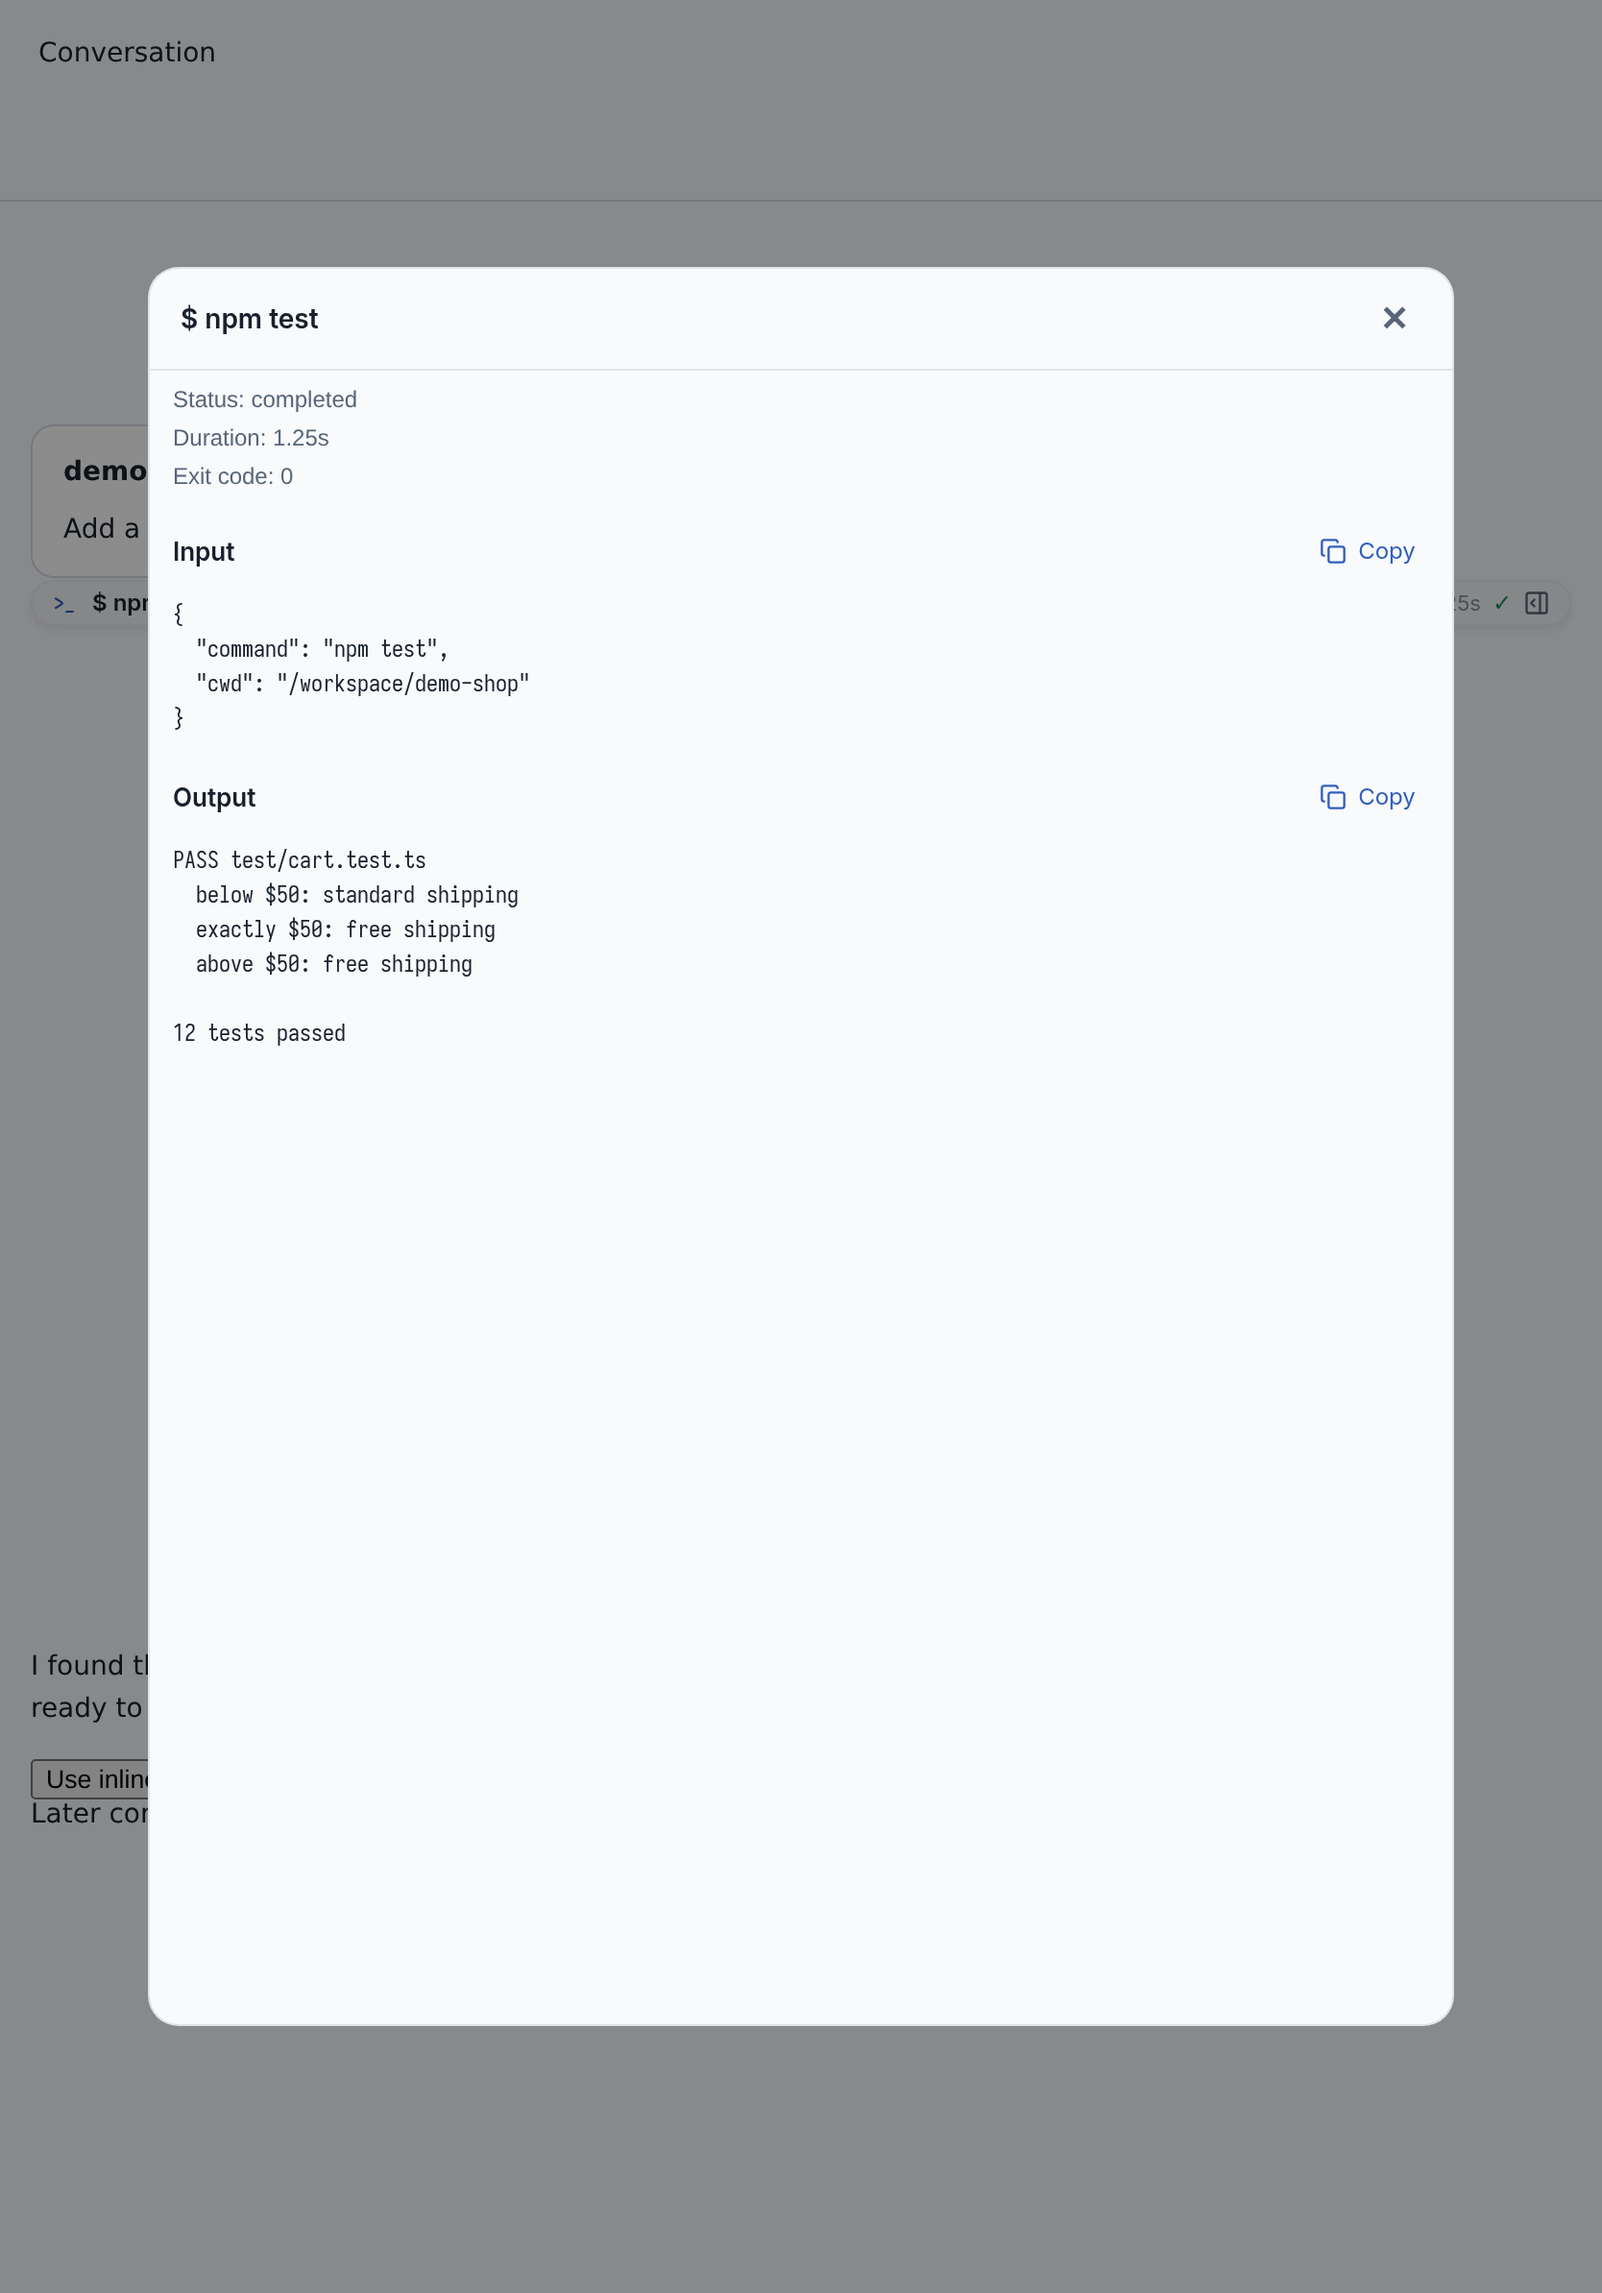
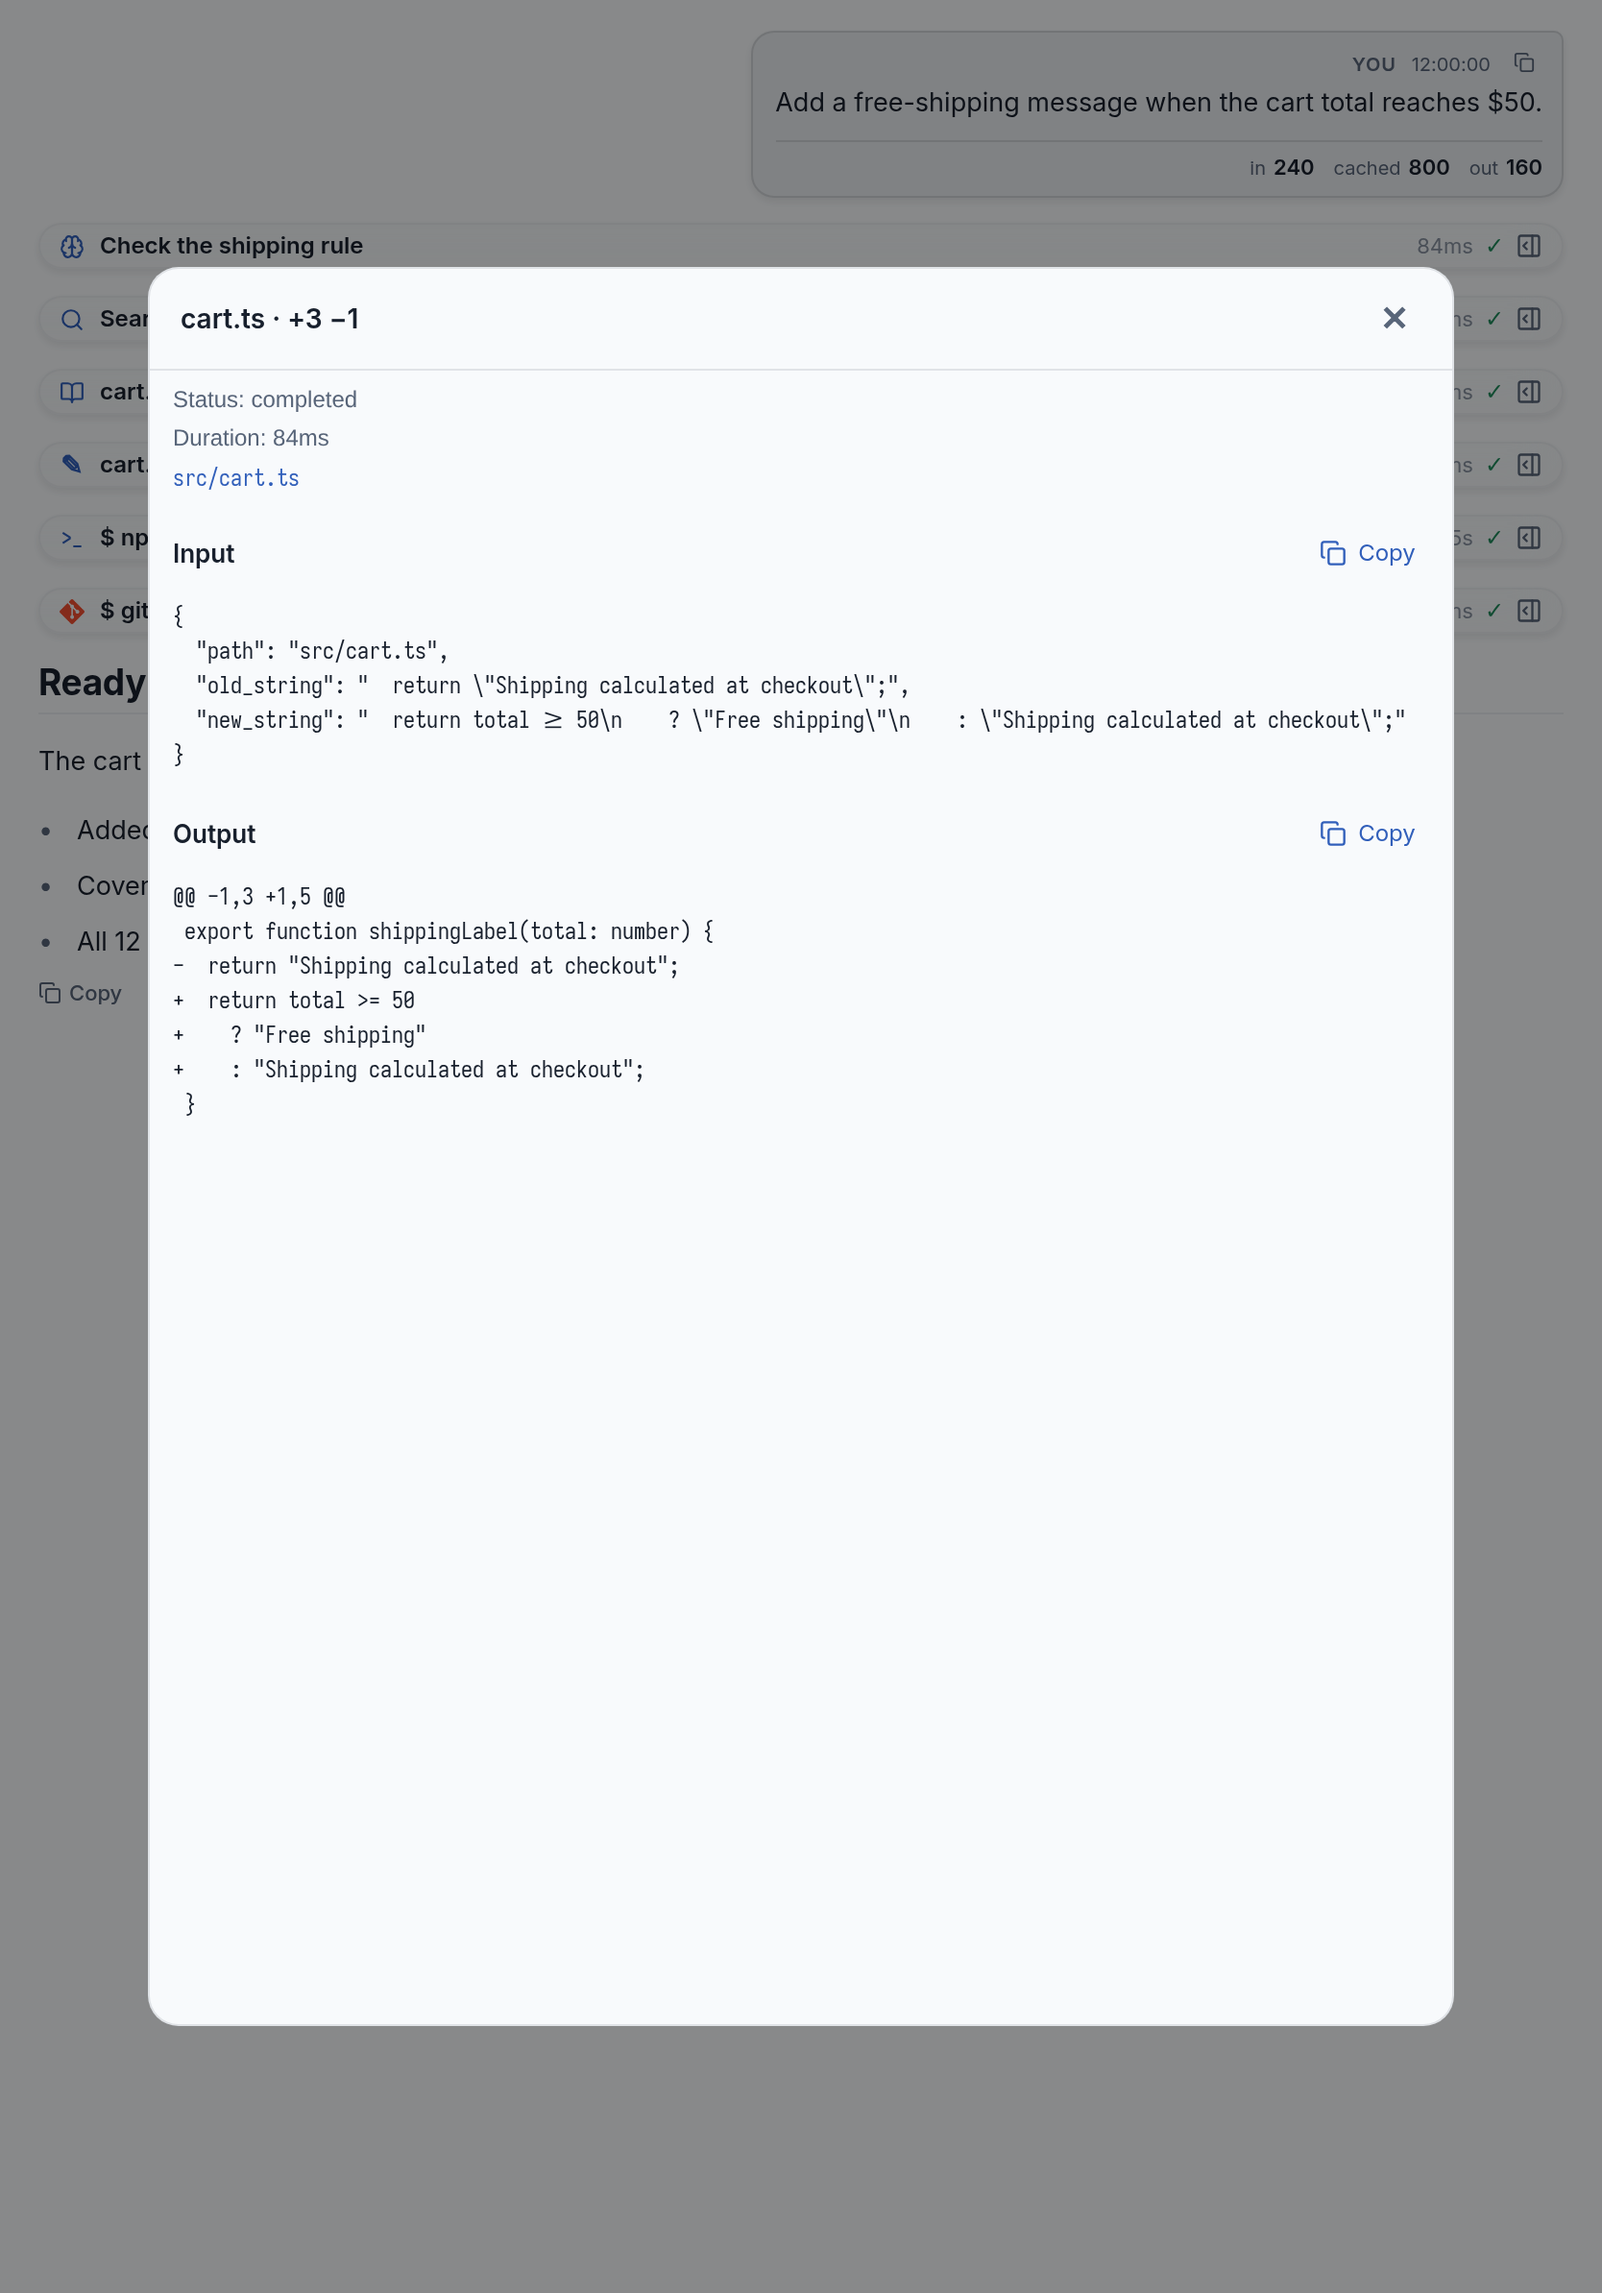
docs: retake README v2 iPad screenshots

diff --git a/.showcase/step-details.tsx b/.showcase/step-details.tsx
@@ -1,14 +1,23 @@
-import React, { useEffect, useLayoutEffect, useRef, useState, useSyncExternalStore } from "react";
-import { useWindowDimensions } from "react-native";
+import React, { useEffect, useLayoutEffect, useMemo, useRef, useState, useSyncExternalStore } from "react";
+import { useWindowDimensions, View } from "react-native";
 import { createRoot } from "react-dom/client";
 import type { PluginAgentPanelProps, PluginClientContext, PluginAgentPanelContribution } from "@getpaseo/plugin/client";
 import { LiveToolCallRenderer } from "../client/live-renderers";
-import type { LiveToolCallPayload } from "../client/tool-call-data";
-import { installStepDetailPanel } from "../client/components/step-detail-host";
+import { buildLiveToolCallData, type LiveToolCallPayload } from "../client/tool-call-data";
+import { installStepDetailPanel, openHostStepDetail } from "../client/components/step-detail-host";
 import { embedFonts } from "../client/components/embed-fonts";
+import { installFrostedGlass } from "../client/components/frosted";
 import { initializeEnhancerPreferences, updateEnhancerPreferences, useEnhancerPreferences } from "../client/preferences";
-import { DESKTOP_MIN, TABLET_MIN } from "../client/breakpoints";
+import { DESKTOP_MIN, stepDetailPresentation, TABLET_MIN } from "../client/breakpoints";
 import { installCompactToolSpacing } from "../client/tool-row-spacing";
+import { buildThemeTokens } from "../client/components/theme-tokens";
+import { ToolCallout } from "../client/components/tool-callouts";
+import { UserMessage } from "../client/components/user-message";
+import { MarkdownView } from "../client/components/markdown/markdown-view";
+import { AssistantFooter } from "../client/components/turn-footer";
+import { StepDetailPanel } from "../client/components/step-detail-panel";
+import type { ToolCalloutData } from "../shared/contracts";
+import { CALLS, DIFF, PROMPT, REPLY } from "./fixtures";
 import { hydratePreviewWorkspace, previewWorkspaceReady, PluginTranslationProvider, PluginTranslationRuntime } from "./shims/step-detail-client";
 
 declare global { interface Window {
@@ -19,6 +28,8 @@ window.__stepDetailPanelAttempts = [];
 
 embedFonts();
 installCompactToolSpacing();
+const captureShot = new URLSearchParams(location.search).get("capture") === "ipad";
+if (captureShot) installFrostedGlass();
 
 const colors = {
   ...(new URLSearchParams(location.search).get("theme") === "light" ? {
@@ -45,7 +56,70 @@ installStepDetailPanel({
   },
 } as unknown as PluginClientContext);
 
+/** Same synthetic turn as the hero comparison, with the edit step opened. */
+const CAPTURE_STEPS = ["thinking", "search", "read", "edit", "bash", "git"] as const;
+const captureEditCall: LiveToolCallPayload = {
+  name: "edit", status: "completed", callId: "demo-edit",
+  detail: {
+    type: "edit", filePath: "src/cart.ts", durationMs: 84, unifiedDiff: DIFF,
+    input: {
+      path: "src/cart.ts",
+      old_string: "  return \"Shipping calculated at checkout\";",
+      new_string: "  return total >= 50\n    ? \"Free shipping\"\n    : \"Shipping calculated at checkout\";",
+    },
+    output: DIFF,
+  },
+};
+
+function CaptureFrame() {
+  const { width } = useWindowDimensions();
+  const presentation = stepDetailPresentation(width);
+  const tokens = useMemo(() => buildThemeTokens(colors), []);
+  const editStep = useMemo(() => buildLiveToolCallData(captureEditCall), []);
+  const showPanel = useSyncExternalStore(listener => { listeners.add(listener); return () => { listeners.delete(listener); }; }, () => visible);
+  const [popover, setPopover] = useState<ToolCalloutData | null>(null);
+  useEffect(() => {
+    document.documentElement.style.background = colors.surface0;
+    document.body.style.margin = "0";
+    document.body.style.background = colors.surface0;
+    document.body.style.fontFamily = '"OMP Inter", sans-serif';
+    const root = document.getElementById("root");
+    if (!root) return;
+    root.style.display = "block";
+    root.style.width = "100%";
+    root.style.height = "100%";
+  }, []);
+  const openStep = (step: ToolCalloutData) => {
+    if (presentation === "side" && openHostStepDetail("demo-host", "demo-agent", "demo-workspace", { key: step.id, step }, true)) {
+      setPopover(null);
+      return;
+    }
+    setPopover(step);
+  };
+  const Component = contribution.Component as React.ComponentType<PluginAgentPanelProps>;
+  return <div data-pmono="" data-testid="ipad-capture" style={{ display: "flex", width: "100%", height: "100%", overflow: "hidden", boxSizing: "border-box", background: colors.surface0, color: colors.foreground, fontFamily: '"OMP Inter", sans-serif' }}>
+    <main data-testid="preview-chat" style={{ flex: 1, minWidth: 0, overflow: "auto", padding: "16px 20px" }}>
+      <View style={{ gap: 12 }}>
+        <UserMessage text={PROMPT} timestamp={new Date("2026-01-01T12:00:00Z")} tokens={tokens} usage={{ inputTokens: 240, cachedInputTokens: 800, outputTokens: 160 }} />
+        {CAPTURE_STEPS.map(name => {
+          const step = name === "edit" ? editStep : CALLS[name]!;
+          return <ToolCallout key={name} data={step} tokens={tokens} expanded={false} onExpandedChange={() => {}} onOpenDetail={() => openStep(step)} />;
+        })}
+        <View>
+          <MarkdownView text={REPLY} tokens={tokens} variant="document" />
+          <AssistantFooter text={REPLY} at={new Date("2026-01-01T12:01:00Z")} tokens={tokens} />
+        </View>
+      </View>
+    </main>
+    {showPanel ? <aside data-testid="preview-host-panel" style={{ width: "40vw", maxWidth: 440, flexShrink: 0, boxSizing: "border-box", display: width >= DESKTOP_MIN ? "flex" : "none", flexDirection: "column", minHeight: 0, background: colors.surface0, borderLeft: `1px solid ${colors.border}` }}>
+      <Component host={host} params={{ agentId: "demo-agent" }} workspaceId="demo-workspace" revision={0} tab={{ state: undefined, setState() {}, setModified() {} }} layout={{ compact: false, platform: "web" }} theme={{ colors }} />
+    </aside> : null}
+    <StepDetailPanel step={popover} open={popover !== null && presentation !== "side"} presentation={presentation === "side" ? "popover" : presentation} onOpenChange={next => { if (!next) setPopover(null); }} tokens={tokens} />
+  </div>;
+}
+
 function Preview() {
+  if (captureShot) return <CaptureFrame />;
   const { width } = useWindowDimensions();
   // The host may recreate its compact timeline in a later commit, after the
   // existing sheet has already reflowed and emitted a browser scroll event.

diff --git a/README.md b/README.md
@@ -142,6 +142,21 @@ Search, fetch and web search, plans and checklists, plain text, skills and any o
 ### Also included
 
 - **Step details.** Click a collapsed step to see everything about it: the full input and output, the exit code of a shell command, and how long it took when the agent reports it. Input and output have separate copy buttons, and a failed step shows its error text, which you can copy too. Very long output, even 10,000 lines, scrolls smoothly. Details open in a bottom sheet in windows narrower than 744px, a popover from 744 to 1023px, and a side panel from 1024px. When you resize the window, rotate an iPad or use Split View, the details move to the matching layout and keep the same step, your reading position and what you had open. When you switch to another step, its details start at the top. New output for the step you are reading keeps your place. To open steps inside the conversation instead, set **When a collapsed step is pressed** to **Expand inline**.
+
+<p>
+  <picture>
+    <source media="(prefers-color-scheme: dark)" srcset="docs/images/ipad-popover-dark.png">
+    <img alt="On an iPad-sized window, the cart.ts edit opens in a floating sheet over the demo conversation" src="docs/images/ipad-popover-light.png">
+  </picture>
+</p>
+
+<p>
+  <picture>
+    <source media="(prefers-color-scheme: dark)" srcset="docs/images/ipad-side-dark.png">
+    <img alt="On a wide iPad window, the demo conversation stays on the left and the cart.ts edit opens in the side panel" src="docs/images/ipad-side-light.png">
+  </picture>
+</p>
+
 - **Keyboard.** In a browser or the desktop app, press Tab to reach a step, Up and Down to move between steps, Enter to open its details and Escape to close them and return to where you were. Typing in text fields works as usual. This also works in an iPad browser with a hardware keyboard. The native iPhone, iPad and Android apps keep touch controls only, because the plugin API does not give plugins hardware keys there.
 - **Hover preview.** With a mouse, rest the pointer on a collapsed step for a moment to see a preview of its summary and result. File reads show up to 6 lines. Touch screens do not show previews.
 - **Step menu.** Right-click a step, or long-press it on a touch screen, for **Copy command**, **Copy path**, **Copy result** and **Open in file manager**. Each item appears only when it applies; the text written by Write and Edit is not copied as a result. The menu opens next to your pointer or finger and flips to the other side near a screen edge.

diff --git a/README.zh-CN.md b/README.zh-CN.md
@@ -142,6 +142,21 @@ paseo plugin install git:https://github.com/jasonhnd/paseo-clear-chat.git --ref 
 ### 还有这些
 
 - **步骤详情。** 点一个收起的步骤，就能看它的全部内容：完整的输入和输出、命令行的退出码，智能体报告了耗时就也显示耗时。输入和输出可以分开复制；失败的步骤会显示报错内容，也能复制。很长的输出（哪怕 1 万行）也能顺畅滚动。窗口窄于 744px 时详情从底部弹出，744 到 1023px 是浮出的小窗，1024px 以上是侧边面板。调整窗口大小、旋转 iPad 或分屏时，详情会换成对应的样式，还是同一个步骤，读到的位置和展开的内容都不变。换到另一个步骤时，详情从头显示；你正在看的步骤有新输出进来时，停在你读到的位置不动。想在对话里直接展开，把 **点按收起的步骤时**（When a collapsed step is pressed）设成 **原地展开**（Expand inline）。
+
+<p>
+  <picture>
+    <source media="(prefers-color-scheme: dark)" srcset="docs/images/ipad-popover-dark.png">
+    <img alt="On an iPad-sized window, the cart.ts edit opens in a floating sheet over the demo conversation" src="docs/images/ipad-popover-light.png">
+  </picture>
+</p>
+
+<p>
+  <picture>
+    <source media="(prefers-color-scheme: dark)" srcset="docs/images/ipad-side-dark.png">
+    <img alt="On a wide iPad window, the demo conversation stays on the left and the cart.ts edit opens in the side panel" src="docs/images/ipad-side-light.png">
+  </picture>
+</p>
+
 - **键盘操作。** 在浏览器或桌面应用里，按 Tab 移到步骤上，↑↓ 在步骤之间移动，Enter 打开详情，Esc 关闭并回到原来的位置。在输入框里打字不受影响。在 iPad 浏览器里接实体键盘也能用。iPhone、iPad 和 Android 的原生应用只能用触屏操作，因为插件接口在这些应用里拿不到实体按键。
 - **悬停预览。** 用鼠标时，指针在收起的步骤上停一下，会弹出它的要点和结果预览。读文件类最多显示 6 行。触屏上不弹预览。
 - **步骤菜单。** 在步骤上点右键，或在触屏上长按，会弹出 **复制命令**（Copy command）、**复制路径**（Copy path）、**复制结果**（Copy result）、**在文件管理器中打开**（Open in file manager）。只显示用得上的几项；Write 和 Edit 写入的内容不会被当成结果复制。菜单出现在指针或手指旁边，靠近屏幕边缘时会翻到另一侧。

diff --git a/.showcase/README.md b/.showcase/README.md
@@ -51,6 +51,14 @@ SHOWCASE_OUTPUT_ROOT="$KANBAN_TMP/showcase-output" npm run capture --prefix .sho
 
 Remove the trial images and `capture-report.json` after verification.
 
+## iPad step details
+
+`node .showcase/capture-ipad.cjs` writes the four README iPad screenshots. It uses
+the same synthetic cart conversation as the hero comparison, opens the
+`cart.ts · +3 −1` step, and hides the harness close control. Portrait frames are
+834×1194 CSS pixels and landscape frames are 1194×834, both at 2x. The browser
+is the Playwright-bundled Chromium, or `CHROME_PATH` when that points at Chrome.
+
 ## Reply link replay
 
 With the same dependencies and authorized `KANBAN_TMP`, run:
